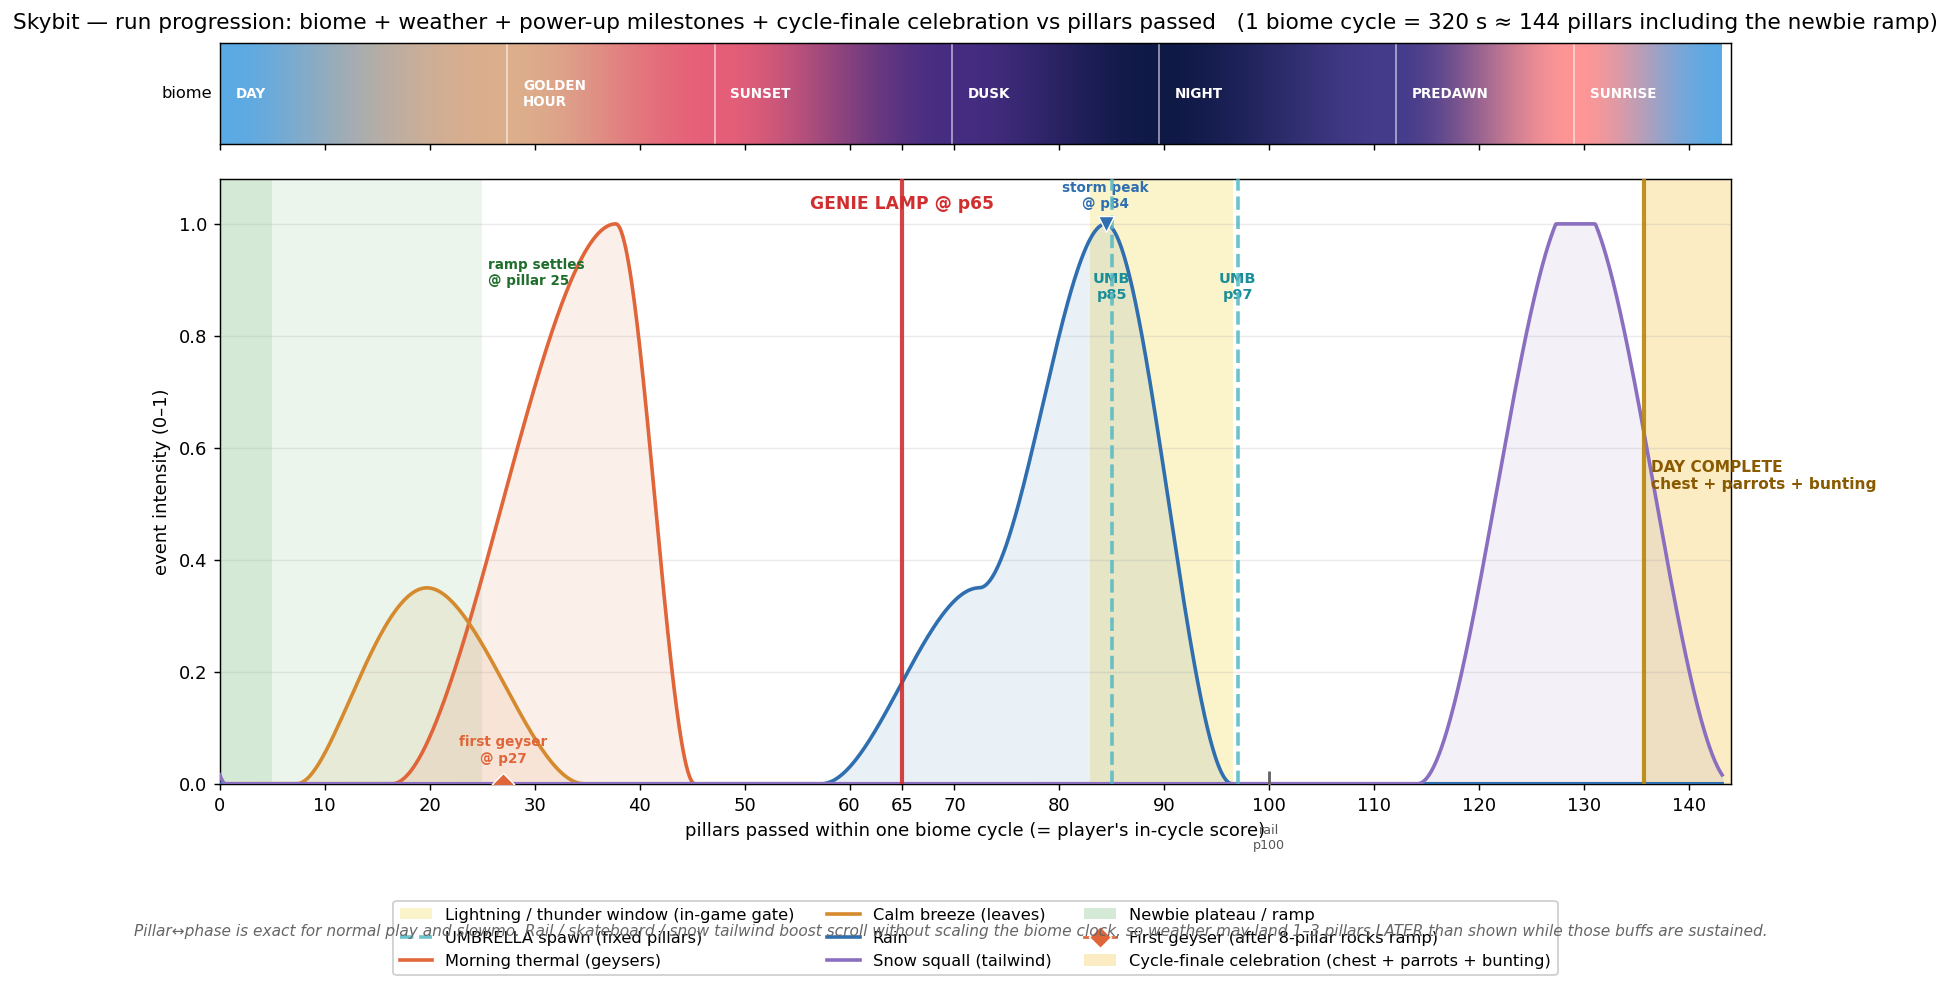
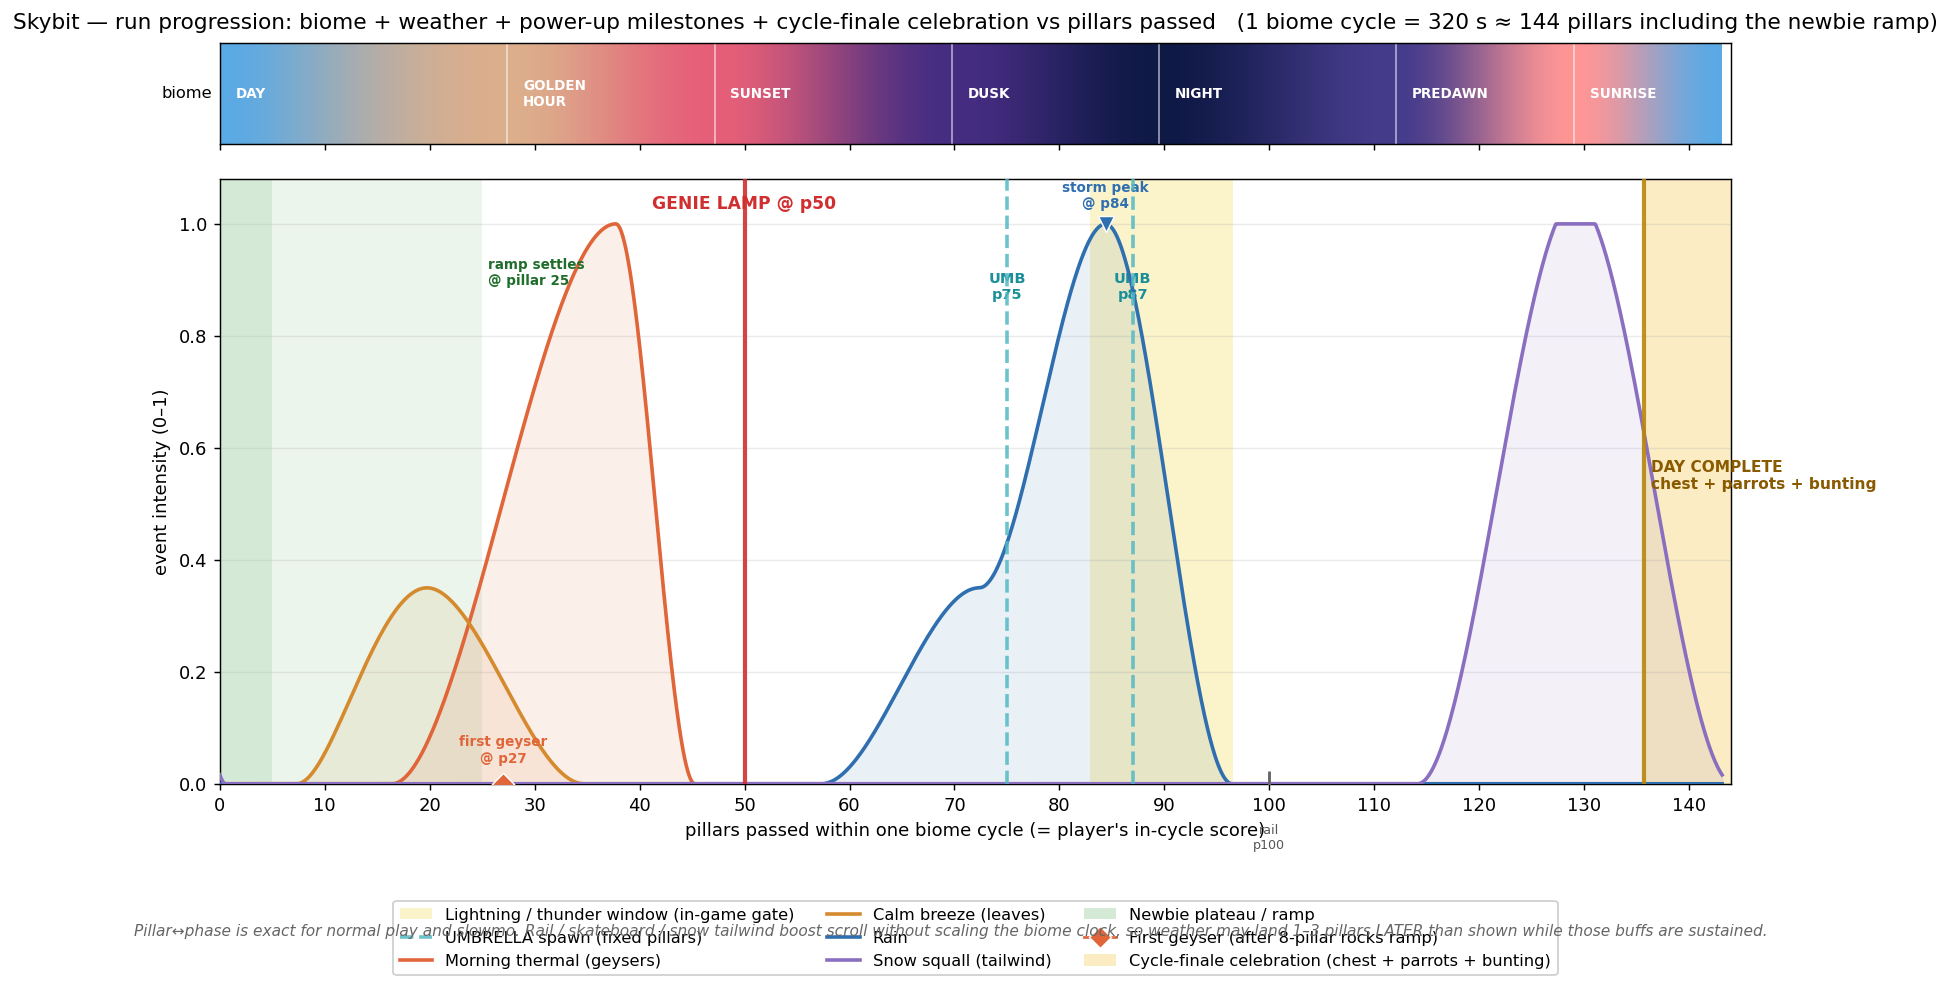
Tune: genie lamp -> p50, umbrella spawns -> p75 / p87
Two pure-config tweaks plus the regenerated progression chart.

- LATE_GAME_PILLAR: 65 -> 50. Genie milestone opens the secret tier
  15 pillars earlier; the surrounding `pillar 65` literals in the
  block comment are de-rotted (they were already wrong by intent
  even at 65 — and CLAUDE.md says comments shouldn't pin to a
  specific value the comment can't enforce). All other genie
  geometry (chamber gap boost, reveal distance, offer slots) is
  unchanged.
- UMBRELLA_SPAWN_PILLARS: (85, 97) -> (75, 87). Each umbrella moves
  10 pillars earlier. With the corrected chart math the rain block
  spans roughly p58-p98, so both new spawn points sit deeper inside
  the rain (was tail-end of fade). The "cull umbrellas once rain
  returns to 0" guard in world.py still holds — both new pillars
  are well inside the bell.

Chart regenerated from these two values directly (the script reads
config.LATE_GAME_PILLAR and config.UMBRELLA_SPAWN_PILLARS at
runtime, no chart-side edit needed). Tests: 19/19 still green.

https://claude.ai/code/session_015eWdab4GNRiXFWxdLQ8CG2

diff --git a/game/config.py b/game/config.py
@@ -138,11 +138,11 @@ POWERUP_REPLACED_AT = {
 # same gameplay moment every run regardless of coin pickups, lottery wins,
 # or storm-jolt deductions. A genie lamp is placed in the spacing between
 # pillar LATE_GAME_PILLAR and the next pillar (so the player encounters it
-# right after scoring pillar 65). From that moment, the genie is also added
+# right after scoring that pillar). From that moment, the genie is also added
 # to the regular spawn pool and the Surprise Box re-roll pool.
-LATE_GAME_PILLAR       = 65
+LATE_GAME_PILLAR       = 50
 # DEBUG: extra genie spawn early in the run so the pickup + chamber + wishes
-# can be exercised without playing through 65 pillars. Same one-shot rules
+# can be exercised without playing through the full milestone. Same one-shot rules
 # as the production milestone (also flips on the genie pool + surprise-box
 # choices). Set to None to disable.
 DEBUG_GENIE_PILLAR     = None
@@ -231,7 +231,7 @@ SPAWN_GRACE         = 1.5
 # only appears while it's raining (a cull step also drops any uncollected
 # umbrella once rain returns to 0).
 UMBRELLA_DURATION       = 8.0
-UMBRELLA_SPAWN_PILLARS  = (85, 97)
+UMBRELLA_SPAWN_PILLARS  = (75, 87)
 
 # TREASURE BOX — once-per-biome-cycle finale reward. When the day/night
 # cycle wraps from late-night back to dawn, the next CYCLE_FINALE_RUSH_PILLARS
